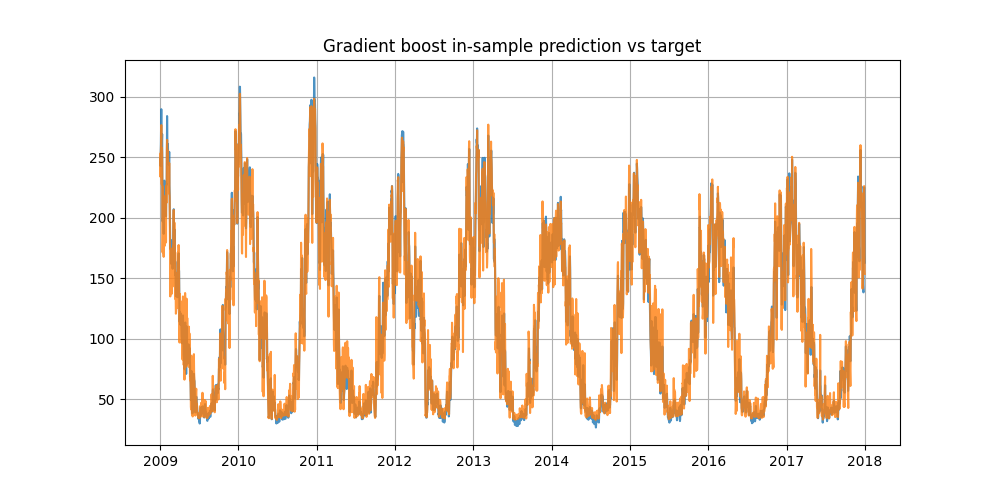
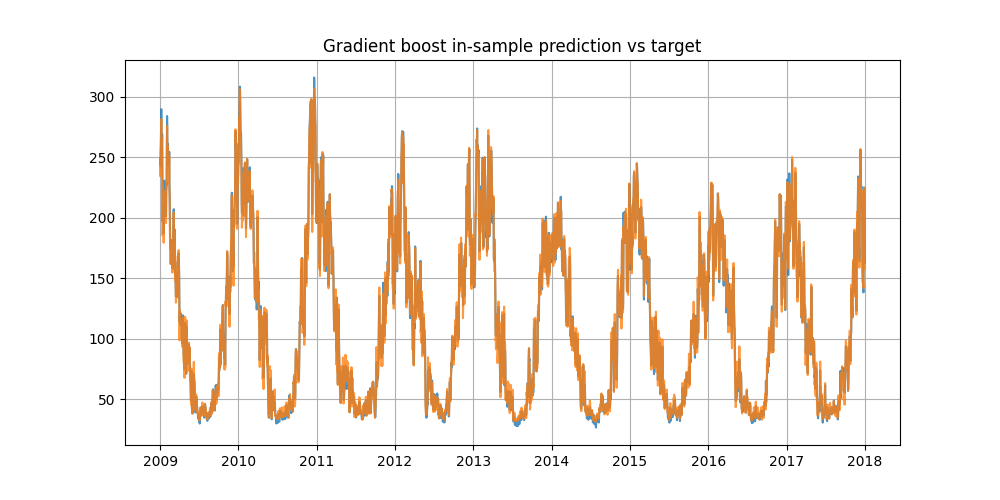
gradient boost: cv and validation

diff --git a/gb.py b/gb.py
@@ -1,51 +1,147 @@
 # %%
 
 import os 
-from pathlib import Path
-import pandas as pd
-import polars as pl
-from sklearn.ensemble import GradientBoostingRegressor
-from IPython.display import display
-from matplotlib import pyplot as plt
-import datetime as dt
-from sklearn.metrics import mean_squared_error
 import numpy as np
+import polars as pl
+import datetime as dt
+from enum import Enum
+from pathlib import Path
+from matplotlib import pyplot as plt
+from sklearn.metrics import mean_squared_error
+from sklearn.ensemble import GradientBoostingRegressor
+from sklearn.model_selection import KFold, RandomizedSearchCV 
 
 IMG_FOLDER = Path("img")
 if not os.path.exists(IMG_FOLDER):
     os.mkdir(IMG_FOLDER)
 
+IMG_FOLDER = Path("img")
+if not os.path.exists(IMG_FOLDER):
+    os.mkdir(IMG_FOLDER)
+
+class Month(int, Enum):
+    Jan = 1
+    Feb = 2
+    Mar = 3
+    Apr = 4
+    May = 5
+    Jun = 6
+    Jul = 7
+    Aug = 8
+    Sep = 9
+    Oct = 10
+    Nov = 11
+    Dec = 12
+
+class Quarter(Enum):
+    Q1 = set([Month.Jan, Month.Feb, Month.Mar])
+    Q2 = set([Month.Apr, Month.May, Month.Jun])
+    Q3 = set([Month.Jul, Month.Aug, Month.Sep])
+    Q4 = set([Month.Oct, Month.Nov, Month.Dec])
+
 TARGET_COL = 'demand'
+DATE_COL = 'date'
 
 # %%
 
-train = pl.read_csv('train.csv').drop('id')
+train = pl.read_csv('train.csv').drop('id').with_columns(
+    pl.col('date').str.to_date()
+)
+
+# add categorical level to include partial date information
+for q in Quarter:
+    train = train.with_columns(
+        pl.col('date').dt.month().is_in(q.value).cast(pl.Int8).alias(q.name)
+    )
+
 features = [c for c in train.columns if c not in ['demand', 'date']]
-
-# %%
 
 y = train.select(pl.col(TARGET_COL)).to_numpy().T[0]
 X = train.select(features).to_numpy()
 
 # %%
 
-model = GradientBoostingRegressor(
+# Set random seed for reproducibility
+np.random.seed(42)
+
+# Split data into 90% train and 10% holdout validation
+n_samples = len(X)
+indices = np.random.permutation(n_samples)
+holdout_size = int(0.1 * n_samples)
+train_idx = indices[holdout_size:]
+holdout_idx = indices[:holdout_size]
+
+X_train, y_train = X[train_idx], y[train_idx]
+X_holdout, y_holdout = X[holdout_idx], y[holdout_idx]
+
+# Define hyperparameter search space
+param_distributions = {
+    'n_estimators': [100, 200, 300, 500, 800],
+    'learning_rate': [0.01, 0.05, 0.1, 0.15, 0.2],
+    'max_depth': [3, 4, 5, 6, 7],
+    'min_samples_split': [2, 5, 10, 15, 20],
+    'min_samples_leaf': [1, 2, 4, 8],
+    'subsample': [0.6, 0.7, 0.8, 0.9, 1.0],
+    'max_features': ['sqrt', 'log2', None],
+}
+
+# Base estimator
+base_model = GradientBoostingRegressor(
     loss='squared_error',
-    learning_rate=0.1,
-    n_estimators=100,
-    subsample=1.,
     criterion='friedman_mse',
-    min_samples_split=2,
-    max_depth=3,
-    max_features=None,
+    random_state=42
 )
 
+# Set up 5-fold CV with shuffle
+cv = KFold(n_splits=5, shuffle=True, random_state=42)
 
+# RandomizedSearchCV
+print("Starting RandomizedSearchCV with 50 iterations...")
+random_search = RandomizedSearchCV(
+    estimator=base_model,
+    param_distributions=param_distributions,
+    n_iter=50,
+    cv=cv,
+    scoring='neg_mean_squared_error',
+    random_state=42,
+    verbose=2,
+    n_jobs=-1
+)
+
+random_search.fit(X_train, y_train)
+
+print("\n" + "="*60)
+print("RandomizedSearchCV Results")
+print("="*60)
+print(f"Best CV Score (MSE): {-random_search.best_score_:.4f}")
+print(f"Best CV Score (RMSE): {np.sqrt(-random_search.best_score_):.4f}")
+print("\nBest Parameters:")
+for param, value in random_search.best_params_.items():
+    print(f"  {param}: {value}")
+
+# Evaluate on holdout set
+best_model = random_search.best_estimator_
+y_holdout_pred = best_model.predict(X_holdout)
+holdout_mse = mean_squared_error(y_holdout, y_holdout_pred)
+holdout_rmse = np.sqrt(holdout_mse)
+
+print("\n" + "="*60)
+print("Holdout Validation Results")
+print("="*60)
+print(f"Holdout MSE: {holdout_mse:.4f}")
+print(f"Holdout RMSE: {holdout_rmse:.4f}")
+print(f"CV vs Holdout RMSE difference: {abs(np.sqrt(-random_search.best_score_) - holdout_rmse):.4f}")
+
+# Train final model on ALL training data with best parameters
+print("\n" + "="*60)
+print("Training final model on all training data...")
+print("="*60)
+model = GradientBoostingRegressor(**random_search.best_params_, random_state=42)
 model.fit(X, y)
 
 y_hat = model.predict(X)
 
-dates = [dt.date.fromisoformat(d) for d in train.select('date').to_numpy().T[0]]
+dates = [d for d in train.select('date').to_numpy().T[0]]
 
 # %%
 
@@ -71,9 +167,18 @@ fig.savefig(IMG_FOLDER / 'gb_in_sample.png')
 
 # %%
 
-test = pl.read_csv('test.csv').drop('id')
+test = pl.read_csv('test.csv').drop('id').with_columns(
+    pl.col('date').str.to_date()
+)
 
-dates_test = [dt.date.fromisoformat(d) for d in test.select('date').to_numpy().T[0]]
+# add categorical level to include partial date information
+for q in Quarter:
+    test = test.with_columns(
+        pl.col('date').dt.month().is_in(q.value).cast(pl.Int8).alias(q.name)
+    )
+
+
+dates_test = [d for d in test.select('date').to_numpy().T[0]]
 
 X_test = test.select(features).to_numpy()
 
@@ -92,3 +197,33 @@ ax.grid()
 ax.set_title("Gradient-boost in sample target and OOS prediction")
 
 fig.savefig(IMG_FOLDER / 'gb_oos_prediction.png')
+
+# %%
+
+# Feature importance analysis
+feature_importance = model.feature_importances_
+feature_names = features
+
+# Sort features by importance
+sorted_idx = np.argsort(feature_importance)[::-1]
+top_n = 20  # Show top 20 features
+
+fig, ax = plt.subplots(figsize=(10, 8))
+
+ax.barh(range(top_n), feature_importance[sorted_idx][:top_n])
+ax.set_yticks(range(top_n))
+ax.set_yticklabels([feature_names[i] for i in sorted_idx[:top_n]])
+ax.invert_yaxis()
+ax.set_xlabel('Feature Importance')
+ax.set_title(f'Top {top_n} Most Important Features - Gradient Boosting')
+ax.grid(axis='x', alpha=0.3)
+
+fig.tight_layout()
+fig.savefig(IMG_FOLDER / 'gb_feature_importance.png')
+
+print("\n" + "="*60)
+print(f"Top {top_n} Feature Importances:")
+print("="*60)
+for i in range(top_n):
+    idx = sorted_idx[i]
+    print(f"{i+1:2d}. {feature_names[idx]:30s}: {feature_importance[idx]:.4f}")
